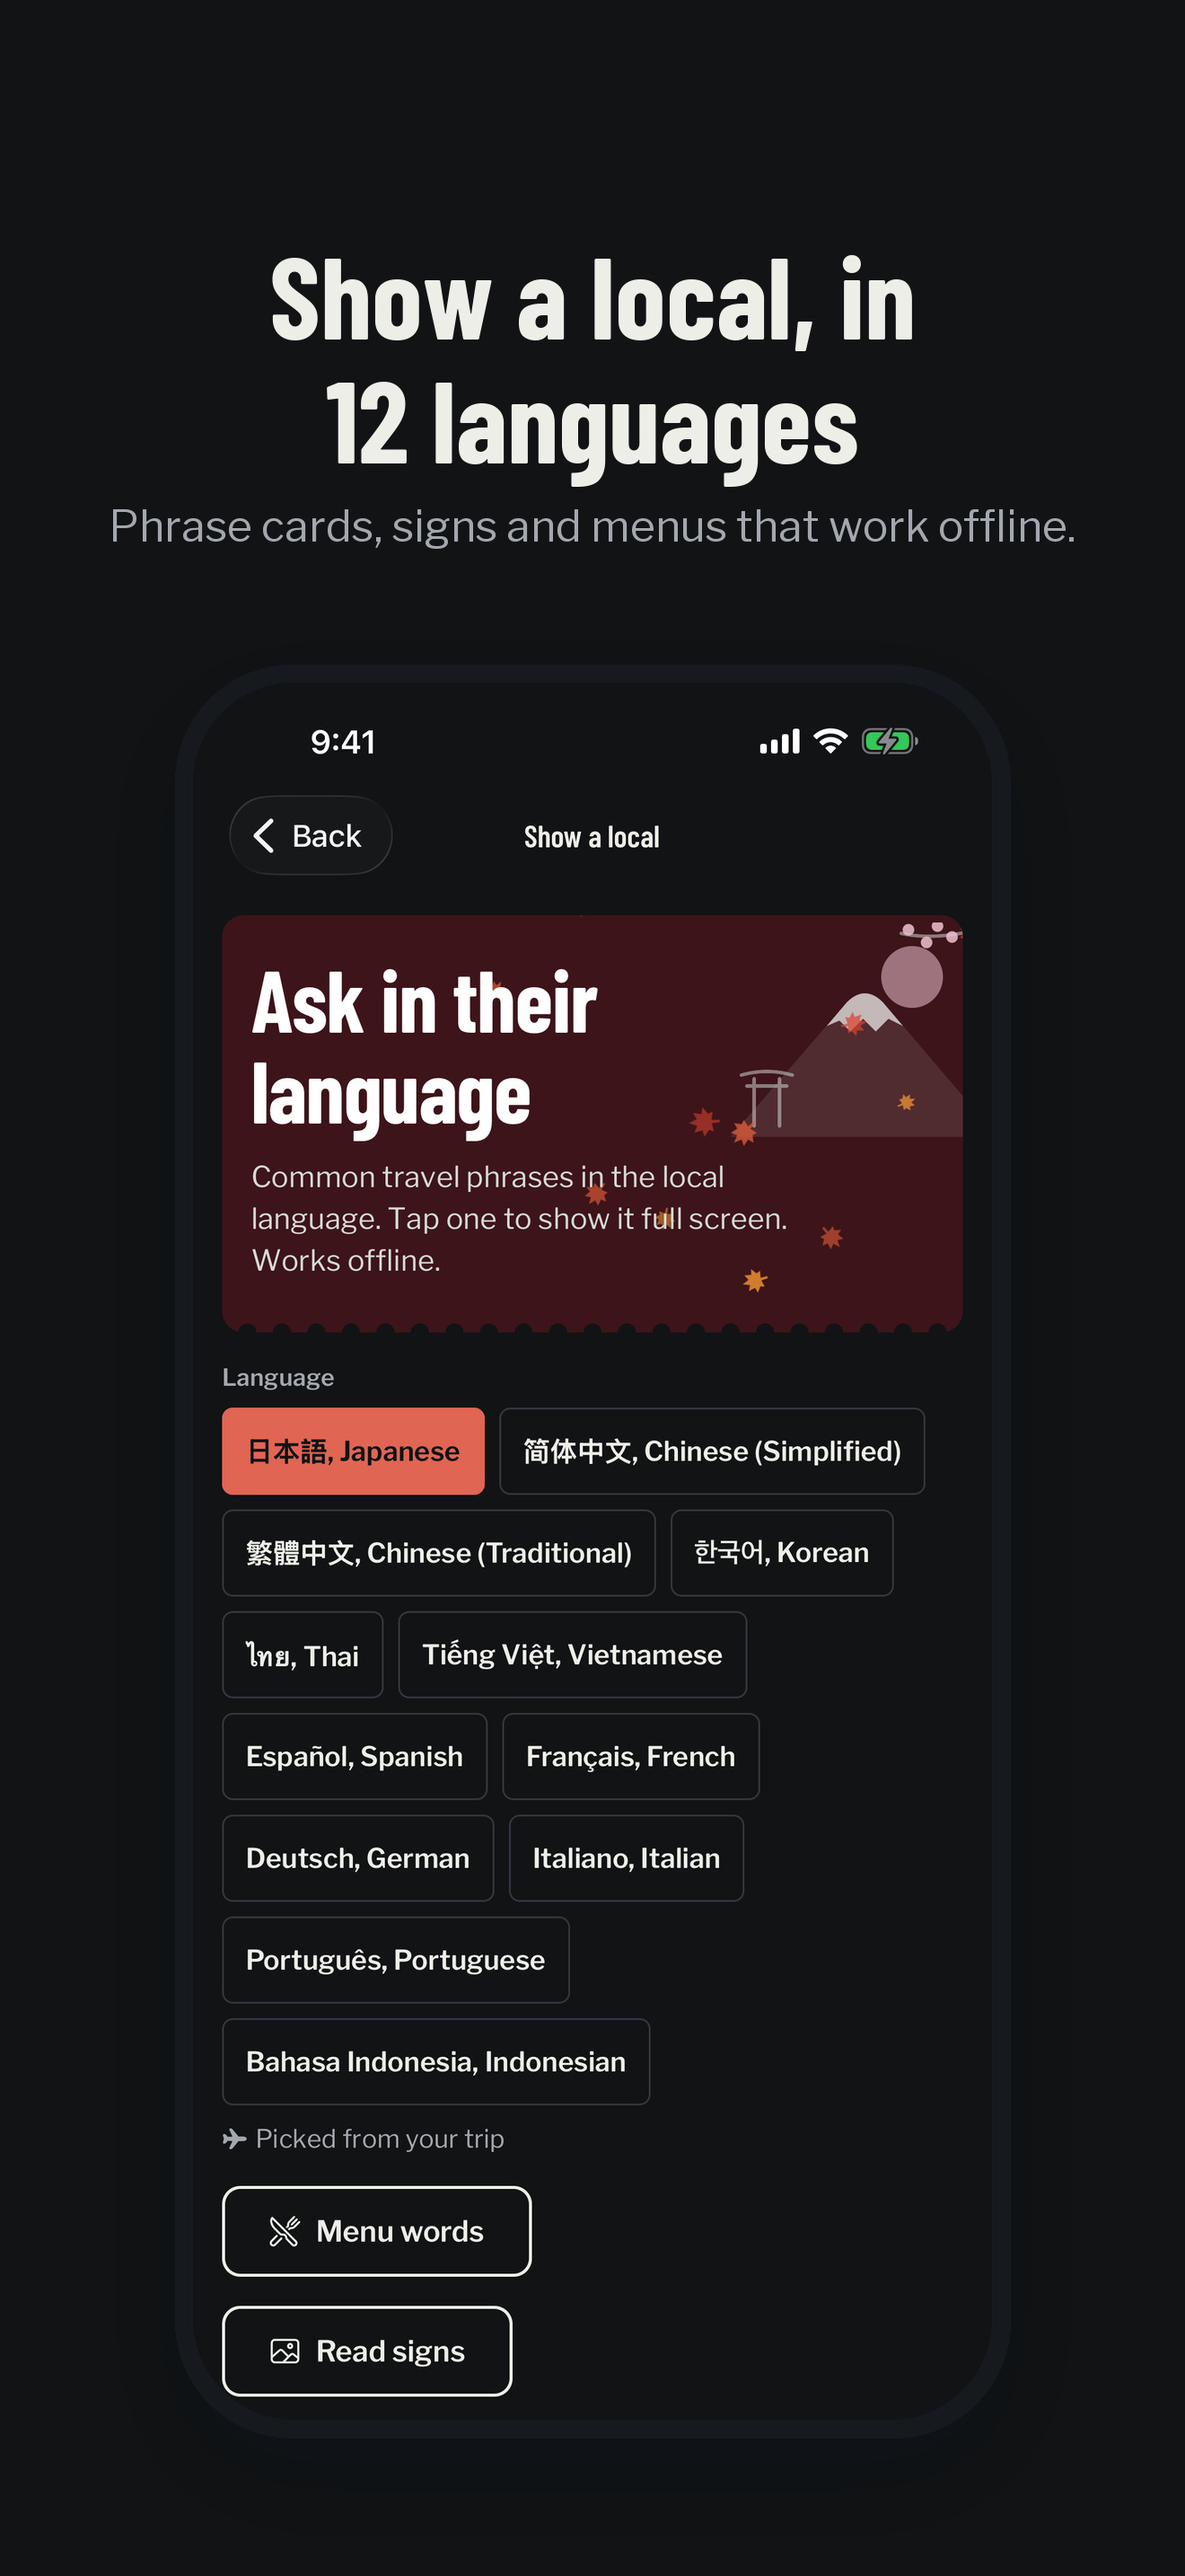
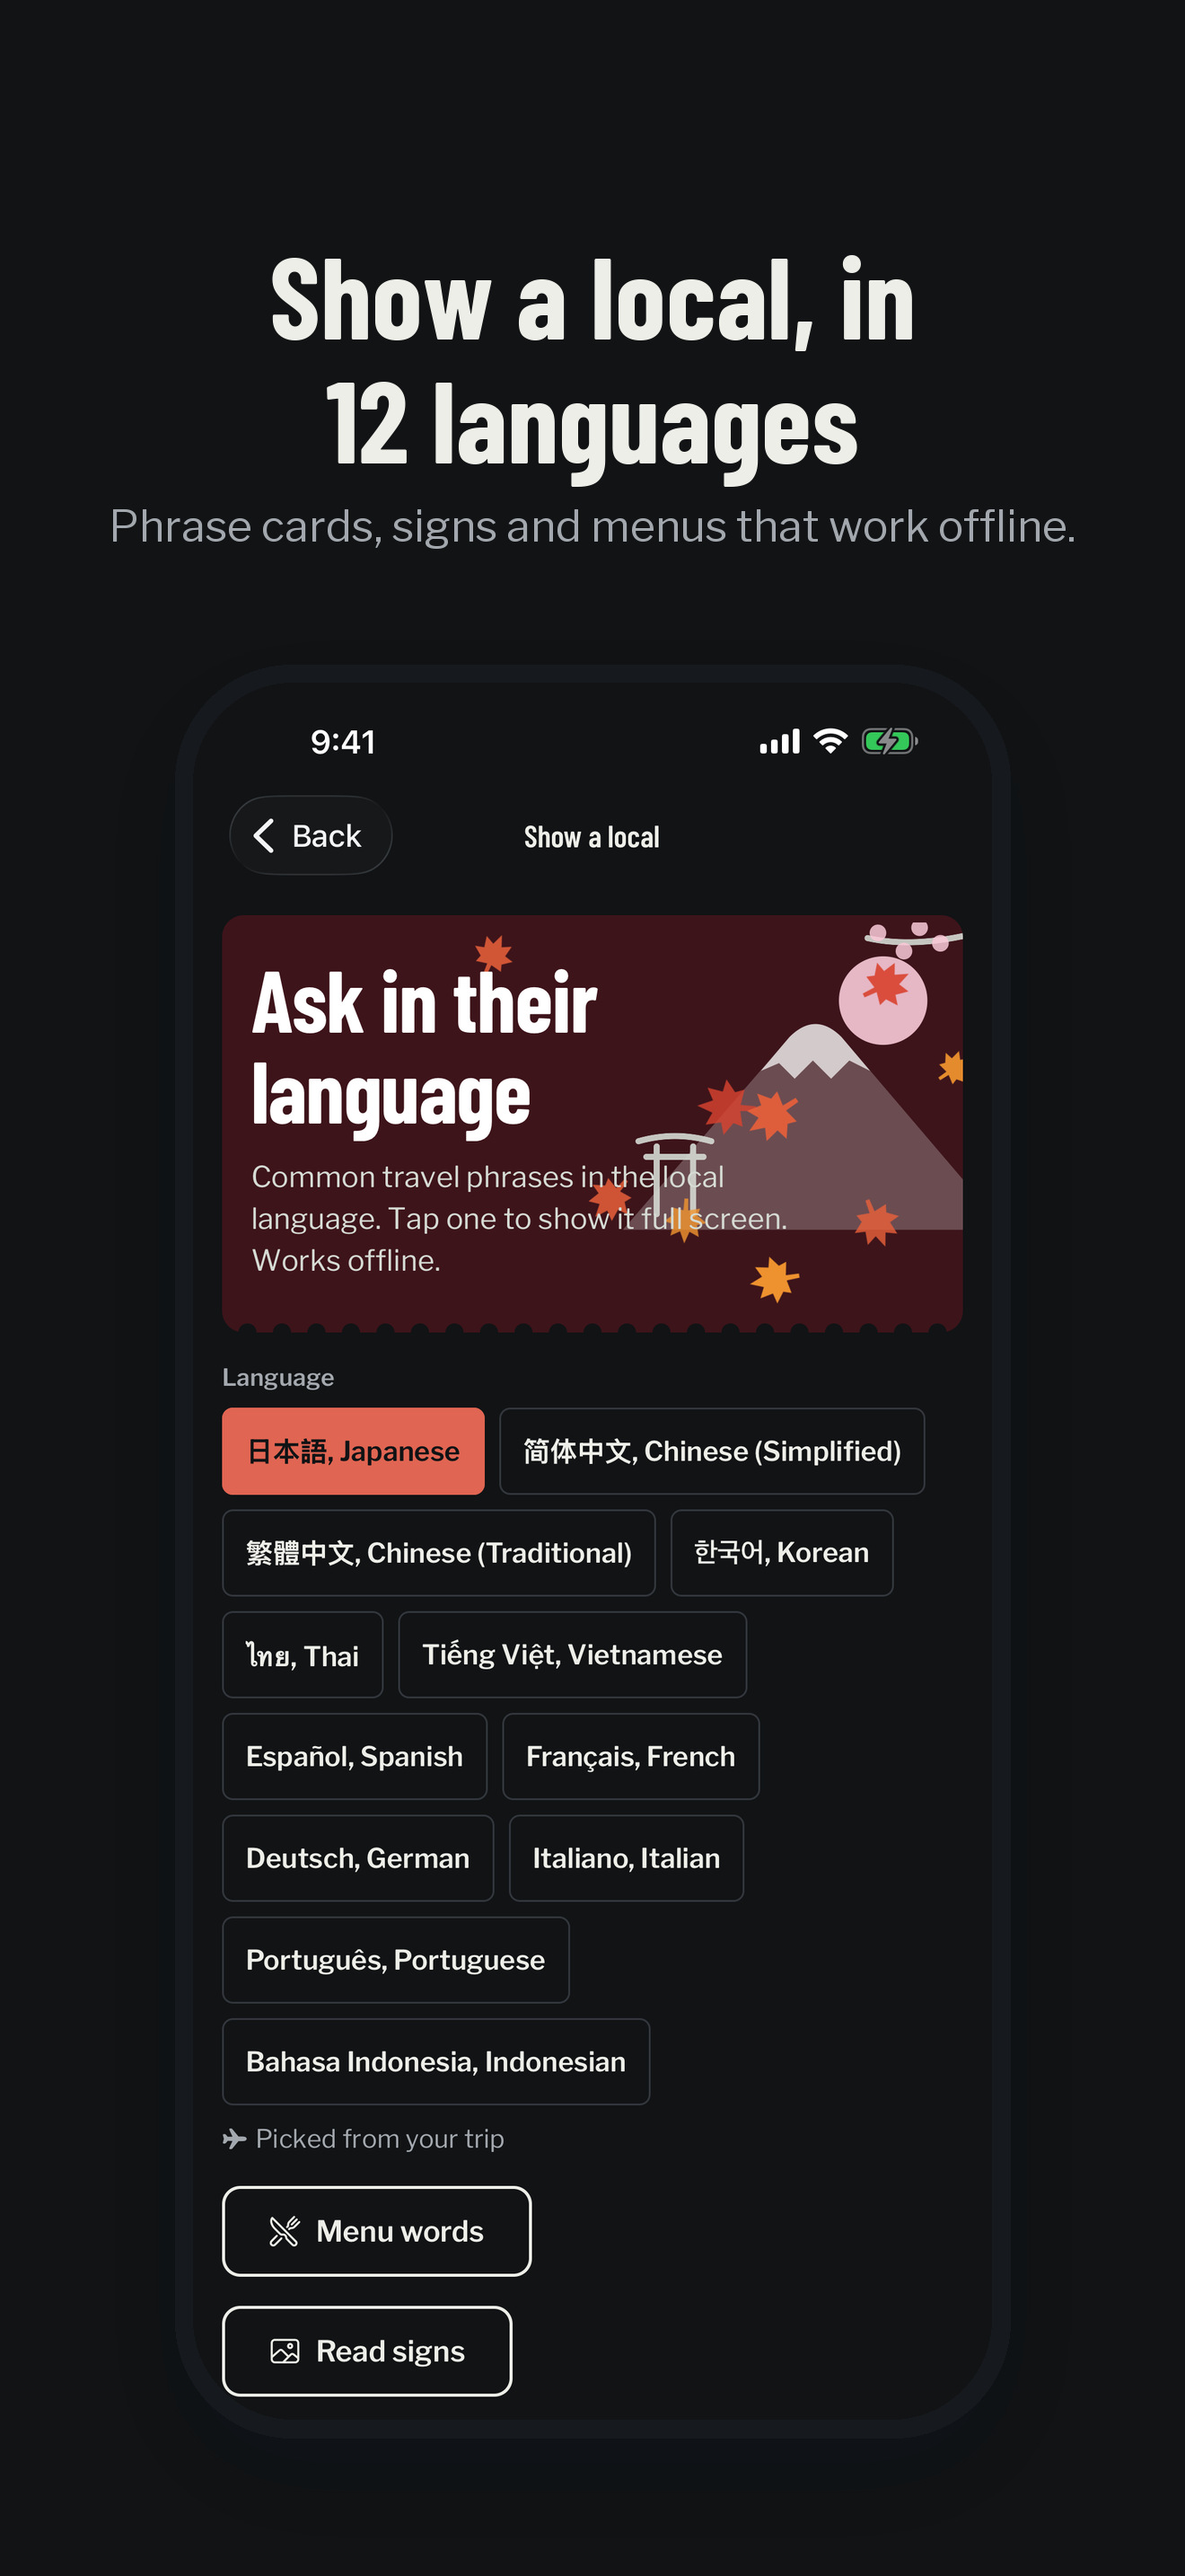
Satchel: store screenshots from the themes / mascot build

Changed region(s): [[0.497, 0.3414, 0.8076, 0.5275], [0.4038, 0.3414, 0.4348, 0.4034]]

diff --git a/apps/satchel/store/screenshots/README.md b/apps/satchel/store/screenshots/README.md
@@ -4,12 +4,12 @@ Upload these six, in this order, to App Store Connect > Satchel > 1.0 > iPhone 6
 
 | # | File | Caption | Raw capture (satchel-store-capture.yml) |
 |---|---|---|---|
-| 1 | 6.9/01-itinerary.jpg | Your itinerary, day by day | 01-itinerary-light, run 44830827911 |
-| 2 | 6.9/02-paste-plans.jpg | Paste your plans, check, save | 08c-paste-scrolled-light, run 44830827911 |
-| 3 | 6.9/03-tickets.jpg | Tickets ready at the gate | 03-ticket-dark, run 44830827911 |
-| 4 | 6.9/04-show-a-local.jpg | Show a local, in 12 languages | 07-phrases-dark, run 44830827911 |
-| 5 | 6.9/05-emergency.jpg | Help, one tap away | 05-emergency-light, run 44830827911 |
-| 6 | 6.9/06-map.jpg | Your trip on the map | 06-map-light, run 44830827911 |
+| 1 | 6.9/01-itinerary.jpg | Your itinerary, day by day | 01-itinerary-light, run 44847968970 |
+| 2 | 6.9/02-paste-plans.jpg | Paste your plans, check, save | 08c-paste-scrolled-light, run 44847968970 |
+| 3 | 6.9/03-tickets.jpg | Tickets ready at the gate | 03-ticket-dark, run 44847968970 |
+| 4 | 6.9/04-show-a-local.jpg | Show a local, in 12 languages | 07-phrases-dark, run 44847968970 |
+| 5 | 6.9/05-emergency.jpg | Help, one tap away | 05-emergency-light, run 44847968970 |
+| 6 | 6.9/06-map.jpg | Your trip on the map | 06-map-light, run 44847968970 |
 
 Real Release simulator captures (build B, capture flag: the app as during the trial), with an invented Tokyo & Kyoto
 trip seeded by `store/capture/seed.py` (invented carrier, hotels, passenger, insurer, fiction-range phone numbers).
